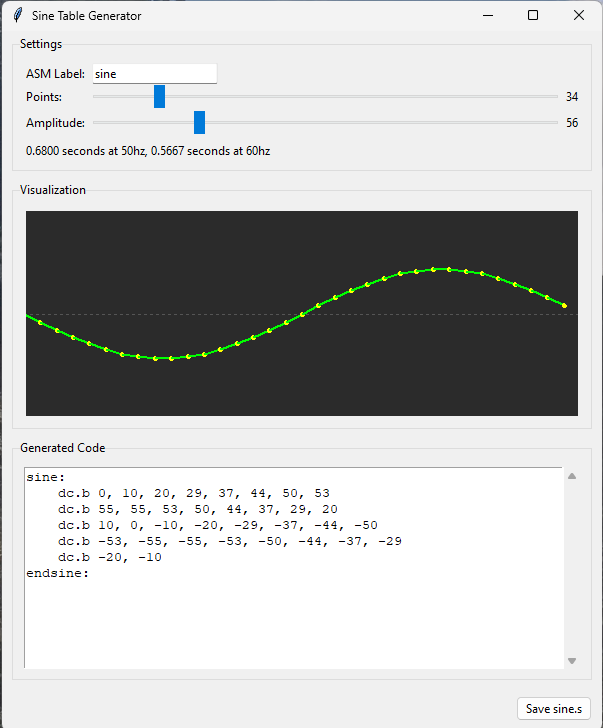
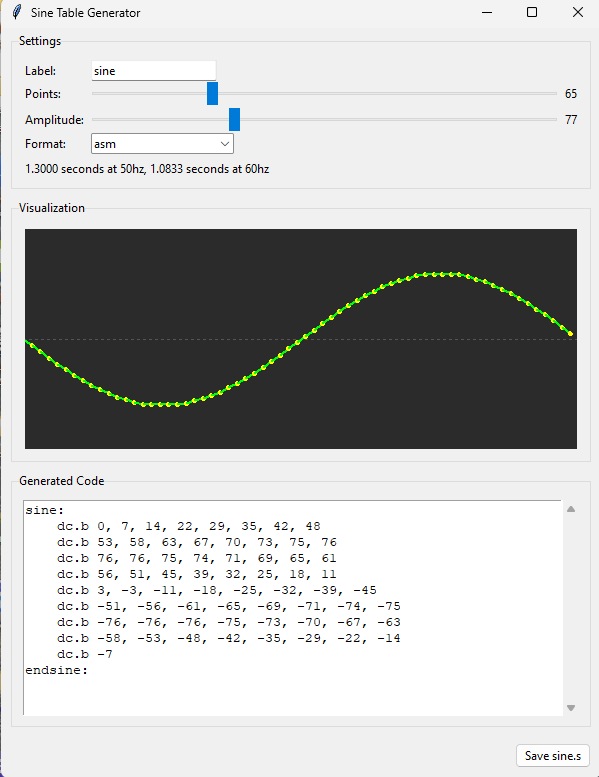
feat: Add C/C++ and Blitz Basic output formats, updating the GUI, CLI, and documentation with new options and screenshots.

diff --git a/sine_gen.py b/sine_gen.py
@@ -11,6 +11,8 @@ from tkinter import ttk, filedialog, messagebox
 
 
 
+# --- Logic ---
+
 def calculate_points(n_points, amplitude):
     points = []
     for i in range(n_points):
@@ -22,12 +24,11 @@ def calculate_points(n_points, amplitude):
         points.append(value)
     return points
 
-def generate_source(label, points):
+def generate_source_asm(label, points):
     lines = []
     lines.append(f"{label}:")
     
     current_line_parts = []
-    
     for i, p in enumerate(points):
         if i > 0 and i % 8 == 0:
             if current_line_parts:
@@ -38,13 +39,59 @@ def generate_source(label, points):
     if current_line_parts:
          lines.append(f"    dc.b {', '.join(current_line_parts)}")
 
-    lines.append(f"end{label}:")
+    lines.append(f"endsine:") # Fixed label usage elsewhere if needed, but endsine is legacy from original
+    # Actually, original code used f"end{label}:". Let's preserve that.
+    lines[-1] = f"end{label}:"
     
     return "\n".join(lines) + "\n"
 
-def generate_sine_table(label, n_points, amplitude):
+def generate_source_c(label, points):
+    lines = []
+    lines.append(f"signed char {label}[] = {{")
+    
+    current_line_parts = []
+    for i, p in enumerate(points):
+        if i > 0 and i % 8 == 0:
+            if current_line_parts:
+                lines.append(f"    {', '.join(current_line_parts)},")
+                current_line_parts = []
+        current_line_parts.append(str(p))
+    
+    if current_line_parts:
+         lines.append(f"    {', '.join(current_line_parts)}")
+
+    lines.append(f"}};")
+    return "\n".join(lines) + "\n"
+
+def generate_source_blitz(label, points):
+    lines = []
+    lines.append(f".{label}")
+    
+    current_line_parts = []
+    for i, p in enumerate(points):
+        if i > 0 and i % 8 == 0:
+            if current_line_parts:
+                lines.append(f"    Data.b {', '.join(current_line_parts)}")
+                current_line_parts = []
+        current_line_parts.append(str(p))
+    
+    if current_line_parts:
+         lines.append(f"    Data.b {', '.join(current_line_parts)}")
+
+    lines.append(f".end{label}")
+    return "\n".join(lines) + "\n"
+
+def generate_source(label, points, fmt="asm"):
+    if fmt == "c":
+        return generate_source_c(label, points)
+    elif fmt == "blitz":
+        return generate_source_blitz(label, points)
+    else:
+        return generate_source_asm(label, points)
+
+def generate_sine_table(label, n_points, amplitude, fmt="asm"):
     points = calculate_points(n_points, amplitude)
-    return generate_source(label, points)
+    return generate_source(label, points, fmt)
 
 # --- GUI ---
 
@@ -52,12 +99,13 @@ class SineApp:
     def __init__(self, root, args):
         self.root = root
         self.root.title("Sine Table Generator")
-        self.root.geometry("600x700")
+        self.root.geometry("600x750")
         
         # Variables
         self.label_var = tk.StringVar(value=args.label)
         self.points_var = tk.IntVar(value=args.points)
         self.amplitude_var = tk.IntVar(value=args.amplitude)
+        self.format_var = tk.StringVar(value=args.format)
         
         self.create_widgets()
         self.update_all()
@@ -67,27 +115,33 @@ class SineApp:
         controls_frame = ttk.LabelFrame(self.root, text="Settings", padding="10")
         controls_frame.pack(fill=tk.X, padx=10, pady=5)
         
-        # Row 1: Label
-        ttk.Label(controls_frame, text="ASM Label:").grid(row=0, column=0, sticky=tk.W)
+        # Row 0: Label
+        ttk.Label(controls_frame, text="Label:").grid(row=0, column=0, sticky=tk.W)
         ttk.Entry(controls_frame, textvariable=self.label_var).grid(row=0, column=1, sticky=tk.W, padx=5)
         
-        # Row 2: Points
+        # Row 1: Points
         ttk.Label(controls_frame, text="Points:").grid(row=1, column=0, sticky=tk.W)
         self.points_slider = ttk.Scale(controls_frame, from_=0, to=255, variable=self.points_var, orient=tk.HORIZONTAL, command=self.on_change)
         self.points_slider.grid(row=1, column=1, sticky=tk.EW, padx=5)
         self.points_label = ttk.Label(controls_frame, text=str(self.points_var.get()))
         self.points_label.grid(row=1, column=2, sticky=tk.W)
         
-        # Row 3: Amplitude
+        # Row 2: Amplitude
         ttk.Label(controls_frame, text="Amplitude:").grid(row=2, column=0, sticky=tk.W)
         self.amplitude_slider = ttk.Scale(controls_frame, from_=0, to=255, variable=self.amplitude_var, orient=tk.HORIZONTAL, command=self.on_change)
         self.amplitude_slider.grid(row=2, column=1, sticky=tk.EW, padx=5)
         self.amplitude_label = ttk.Label(controls_frame, text=str(self.amplitude_var.get()))
         self.amplitude_label.grid(row=2, column=2, sticky=tk.W)
 
+        # Row 3: Format
+        ttk.Label(controls_frame, text="Format:").grid(row=3, column=0, sticky=tk.W)
+        self.format_combo = ttk.Combobox(controls_frame, textvariable=self.format_var, values=["asm", "c", "blitz"], state="readonly")
+        self.format_combo.grid(row=3, column=1, sticky=tk.W, padx=5)
+        self.format_combo.bind("<<ComboboxSelected>>", lambda e: self.update_all())
+
         # Row 4: Execution Time
         self.time_label = ttk.Label(controls_frame, text="")
-        self.time_label.grid(row=3, column=0, columnspan=3, sticky=tk.W, pady=(5,0))
+        self.time_label.grid(row=4, column=0, columnspan=3, sticky=tk.W, pady=(5,0))
 
         controls_frame.columnconfigure(1, weight=1)
 
@@ -95,7 +149,7 @@ class SineApp:
         btn_frame = ttk.Frame(self.root, padding="10")
         btn_frame.pack(side=tk.BOTTOM, fill=tk.X)
         
-        self.save_btn = ttk.Button(btn_frame, text="Save .s file", command=self.save_file)
+        self.save_btn = ttk.Button(btn_frame, text="Save file", command=self.save_file)
         self.save_btn.pack(side=tk.RIGHT)
 
         # Plot Frame
@@ -129,6 +183,7 @@ class SineApp:
             points_count = self.points_var.get()
             amplitude = self.amplitude_var.get()
             label = self.label_var.get()
+            fmt = self.format_var.get()
             
             if points_count == 0:
                 self.text_area.delete(1.0, tk.END)
@@ -139,7 +194,7 @@ class SineApp:
             points = calculate_points(points_count, amplitude)
             
             # Update Code
-            code = generate_source(label, points)
+            code = generate_source(label, points, fmt)
             self.text_area.delete(1.0, tk.END)
             self.text_area.insert(tk.END, code)
             
@@ -152,7 +207,10 @@ class SineApp:
             self.time_label.config(text=f"{time_50hz:.4f} seconds at 50hz, {time_60hz:.4f} seconds at 60hz")
 
             # Update button text
-            self.save_btn.config(text=f"Save {label}.s")
+            ext = ".s"
+            if fmt == "c": ext = ".c"
+            if fmt == "blitz": ext = ".bb"
+            self.save_btn.config(text=f"Save {label}{ext}")
             
         except Exception as e:
             pass
@@ -193,8 +251,19 @@ class SineApp:
             prev_y = y
 
     def save_file(self):
-        filename = f"{self.label_var.get()}.s"
-        file_path = filedialog.asksaveasfilename(initialfile=filename, defaultextension=".s", filetypes=[("Assembly Source", "*.s"), ("All Files", "*.*")])
+        fmt = self.format_var.get()
+        ext = ".s"
+        filetypes = [("Assembly Source", "*.s"), ("All Files", "*.*")]
+        
+        if fmt == "c": 
+            ext = ".c"
+            filetypes = [("C Source", "*.c"), ("All Files", "*.*")]
+        elif fmt == "blitz":
+            ext = ".bb"
+            filetypes = [("Blitz Basic", "*.bb"), ("All Files", "*.*")]
+            
+        filename = f"{self.label_var.get()}{ext}"
+        file_path = filedialog.asksaveasfilename(initialfile=filename, defaultextension=ext, filetypes=filetypes)
         if file_path:
             try:
                 code = self.text_area.get(1.0, tk.END)
@@ -212,12 +281,13 @@ def main():
     parser.add_argument("--points", type=int, default=64, help="Number of points (default: 64)")
     parser.add_argument("--amplitude", type=int, default=30, help="Amplitude (default: 30)")
     parser.add_argument("--output", help="Output file (optional)")
+    parser.add_argument("--format", choices=["asm", "c", "blitz"], default="asm", help="Output format (asm, c, blitz). Default: asm")
     parser.add_argument("--cli", action="store_true", help="Run in Command Line Interface mode")
     
     args = parser.parse_args()
     
     if args.cli:
-        code = generate_sine_table(args.label, args.points, args.amplitude)
+        code = generate_sine_table(args.label, args.points, args.amplitude, args.format)
         
         if args.output:
             try:

diff --git a/README.md b/README.md
@@ -1,6 +1,6 @@
-# Sine Generator for 68000 Assembly
+# Amiga Sine Generator
 
-A Python-based tool to generate sine wave look-up tables (LUTs) for Motorola 68000 assembly projects. This is a port of the [original Rust implementation](https://github.com/rdoetjes/sine_generator) by rdoetjes, offering both a Command Line Interface (CLI) and a Graphical User Interface (GUI).
+A Python-based tool to generate sine wave look-up tables (LUTs) for Amiga programming. It supports output for **Motorola 68000 Assembly**, **C/C++**, and **Blitz Basic**. This is a port of the [original Rust implementation](https://github.com/rdoetjes/sine_generator), enhanced with a GUI and multi-language support.
 
 ![Sine Generator GUI](screenshot.png)
 
@@ -30,6 +30,7 @@ python sine_gen.py
 -   **ASM Label**: Set the label name for the table (e.g., `sine:`).
 -   **Points**: Slider to adjust the number of steps (0-255).
 -   **Amplitude**: Slider to adjust the magnitude (0-255).
+-   **Format**: Dropdown to select output format (**ASM**, **C**, **Blitz Basic**).
 -   **Visualization**: Green dots on a dark background show the waveform.
     -   *Note*: The visualization uses screen coordinates where positive values (down) correspond to increasing memory addresses/screen lines, matching typical copper list or sprite y-positioning logic.
 -   **Real-time Code**: The generated assembly code updates instantly in the text box.
@@ -49,6 +50,7 @@ python sine_gen.py --cli [options]
 -   `--label`: ASM label name (default: `sine`).
 -   `--points`: Number of points (default: `64`).
 -   `--amplitude`: Amplitude of the wave (default: `30`).
+-   `--format`: Output format: `asm` (default), `c`, `blitz`.
 -   `--output`: Output filename (optional). If omitted, prints to stdout.
 
 **Example:**
@@ -67,4 +69,23 @@ sine:
     dc.b 20, 22, 24, 26, 27, 28, 29, 30
     ...
 endsine:
+```
+
+**C/C++ Example:**
+
+```c
+signed char sine[] = {
+    0, 3, 5, 8, 11, 13, 16, 18,
+    20, 22, 24, 26, 27, 28, 29, 30
+    ...
+};
+```
+
+**Blitz Basic Example:**
+
+```blitzbasic
+.sine
+    Data.b 0, 3, 5, 8, 11, 13, 16, 18
+    Data.b 20, 22, 24, 26, 27, 28, 29, 30
+    ...
 ```
